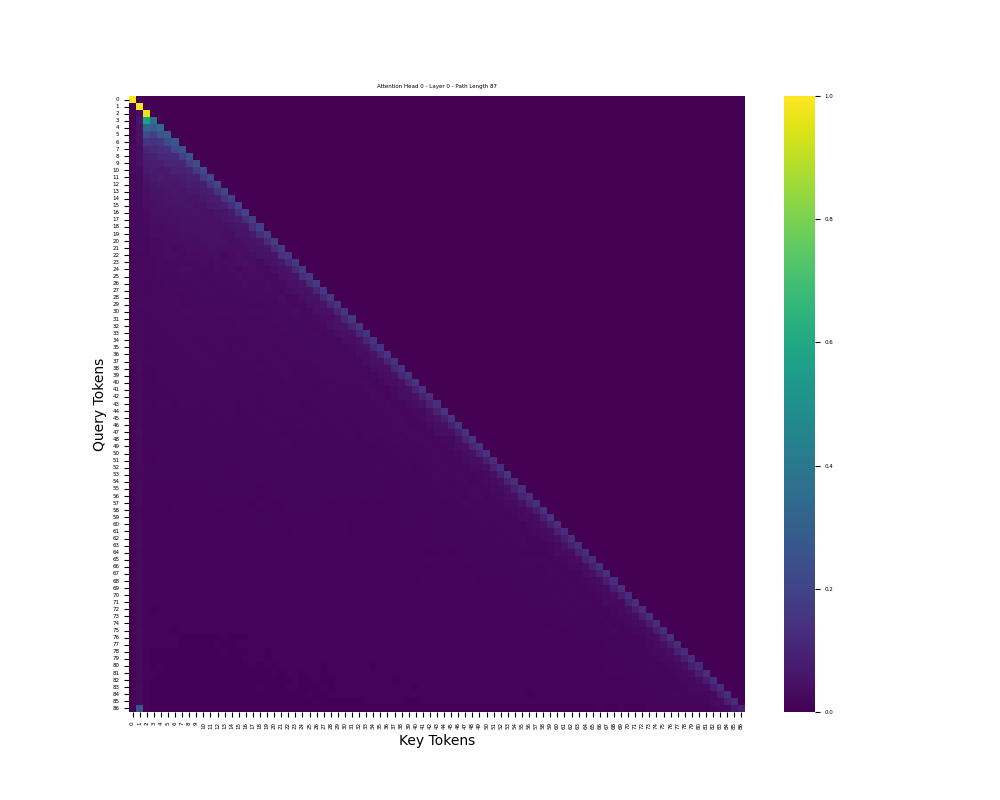
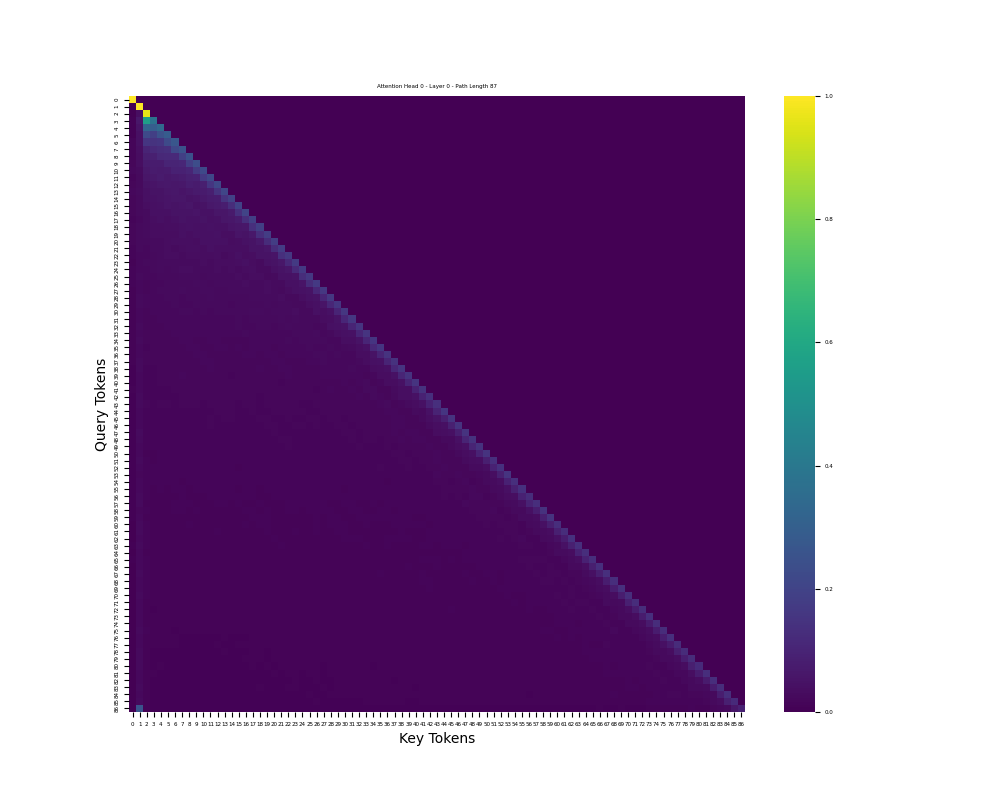
trees more training

diff --git a/visualise_embeddings.py b/visualise_embeddings.py
@@ -99,8 +99,7 @@ if __name__ == "__main__":
     stoi, itos = load_meta(meta_path)
 
     # Your sample text
-    text = "0 99 0 1 2 3 4 5 6 7 8 9 10 11 12 13 14 15 16 17 18 19 20 21 22 23 24 25 26 27 28 29 30 31 32 33 34 35 36 37 38 39 40 41 42 43 44 45 46 47 48 49 50 51 52 53 54 55 56 57 58 59 60 61 62 63 64 65 66 67 68 69 70 71 72 73 74 75 76 77 78 79 80 81 82 83 84 85 86 87 88 89 90 91 92 93 94 95 96 97 98 99"
-
+    text = "55 54 55 56 57 58 59 60 61 62 63 64 65 66 67 68 69 70 71 72 73 74 75 76 77 78 79 80 81 82 83 84 85 86 87 88 89 90 91 92 93 94 95 96 97 98 99 0 1 2 3 4 5 6 7 8 9 10 11 12 13 14 15 16 17 18 19 20 21 22 23 24 25 26 27 28 29 30 31 32 33 34 35 36 37 38 39 40 41 42 43 44 45 46 47 48 49 50 51 52 53 54"
     # Get embeddings
     embeddings = get_embeddings(text, model, stoi)
     # Split text into tokens

diff --git a/generate_tree_path.py b/generate_tree_path.py
@@ -98,7 +98,7 @@ if __name__ == "__main__":
     os.makedirs(folder_name, exist_ok=True)
 
 
-    write_dataset(train_set, os.path.join(os.path.dirname(__file__), f'{num_nodes}_tree/train_20.txt'))
-    write_dataset(test_set, os.path.join(os.path.dirname(__file__), f'{num_nodes}_tree/test.txt'))
-    nx.write_graphml(rooted_tree, os.path.join(os.path.dirname(__file__), f'{num_nodes}_tree/path_graph.graphml'))
+    write_dataset(train_set, os.path.join(os.path.dirname(__file__), f'data/{num_nodes}_tree/train_20.txt'))
+    write_dataset(test_set, os.path.join(os.path.dirname(__file__), f'data/{num_nodes}_tree/test.txt'))
+    nx.write_graphml(rooted_tree, os.path.join(os.path.dirname(__file__), f'data/{num_nodes}_tree/path_graph.graphml'))
 
